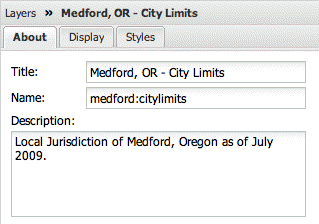
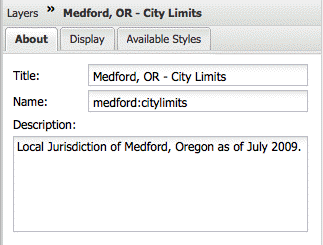
UI updates following fix for (#SUITE-1176)

Changed region(s): [[0.0, 0.0, 1.0, 1.0]]

diff --git a/docs/themes/opengeo/static/default.css b/docs/themes/opengeo/static/default.css
@@ -21,7 +21,7 @@ height: auto; /* override blueprint's screen.css */
 
 strong, 
 em,
-dt, 
+dt, dt 
 b, 
 i {
 	font-family: "Helvetica", "Arial", Lucida Sans Unicode, Lucida Grande, Verdana, sans-serif;
@@ -554,8 +554,13 @@ margin: 0;
 
 
 dl {
+padding-top: 2px;
 margin-bottom: 15px;
 clear: both;
+}
+
+dt {
+margin-left: -12px;
 }
 
 dl dt {

diff --git a/docs/geoexplorer/src/using/layerproperties.rst b/docs/geoexplorer/src/using/layerproperties.rst
@@ -28,8 +28,8 @@ There are three tabs in the Layer Properties panel:
          - Displays layer metadata
        * - :guilabel:`Display`
          - Options for customizing layer display
-       * - :guilabel:`Styles`
-         - Options for customizing layer style and style rules 
+       * - :guilabel:`Available Styles`
+         - Option for choosing a layer style 
 
 
 .. _geoexplorer.using.layerproperties.about:
